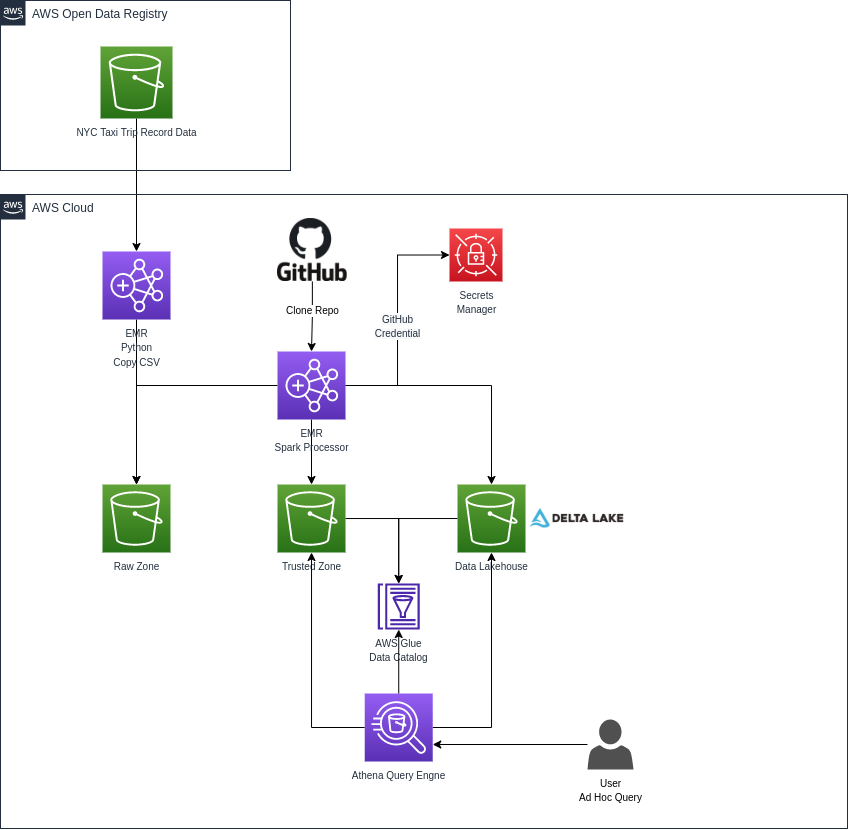
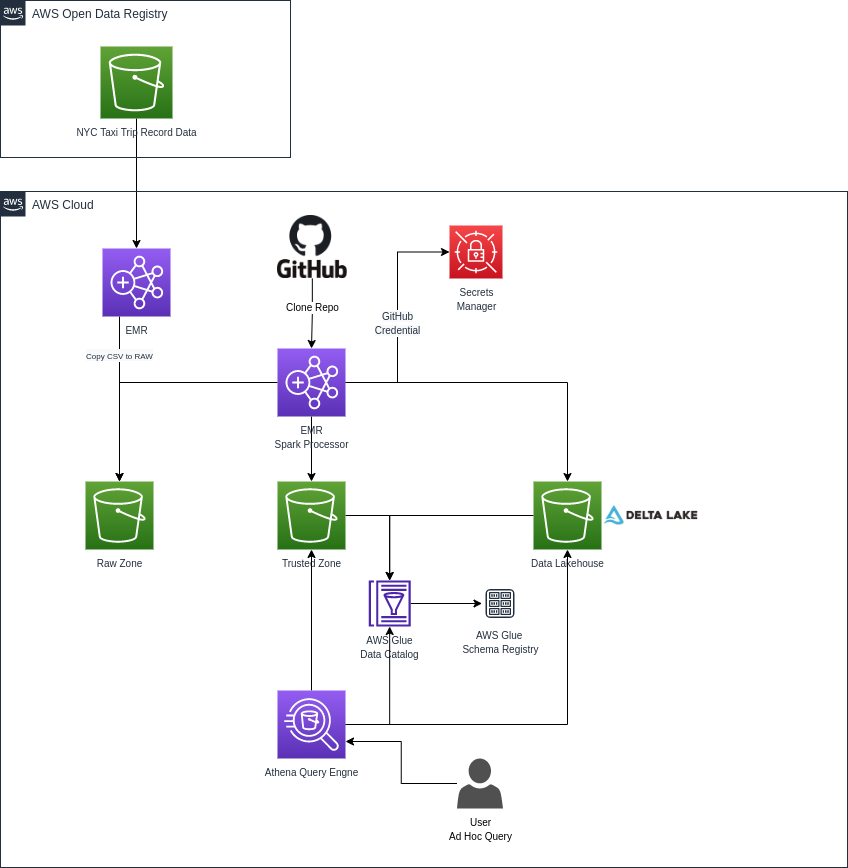
New architecture diagram. Data type changes.

diff --git a/app/process_trusted_data.py b/app/process_trusted_data.py
@@ -38,7 +38,7 @@ green_taxi_schema = StructType([
     StructField("congestion_surcharge", StringType(), True)])
 
 yellow_taxi_schema = StructType([
-    StructField("vendor_id", StringType(), True),
+    StructField("vendor_id", IntegerType(), True),
     StructField("pickup_datetime", TimestampType(), True),
     StructField("dropoff_datetime", TimestampType(), True),
     StructField("passenger_count", IntegerType(), True),

diff --git a/README.md b/README.md
@@ -1,10 +1,8 @@
 # EMR Data Processing
 
-## Data Sources
-
-
 ## Introduction
 
+## Data Sources
 
 ## Problem to solve
 
